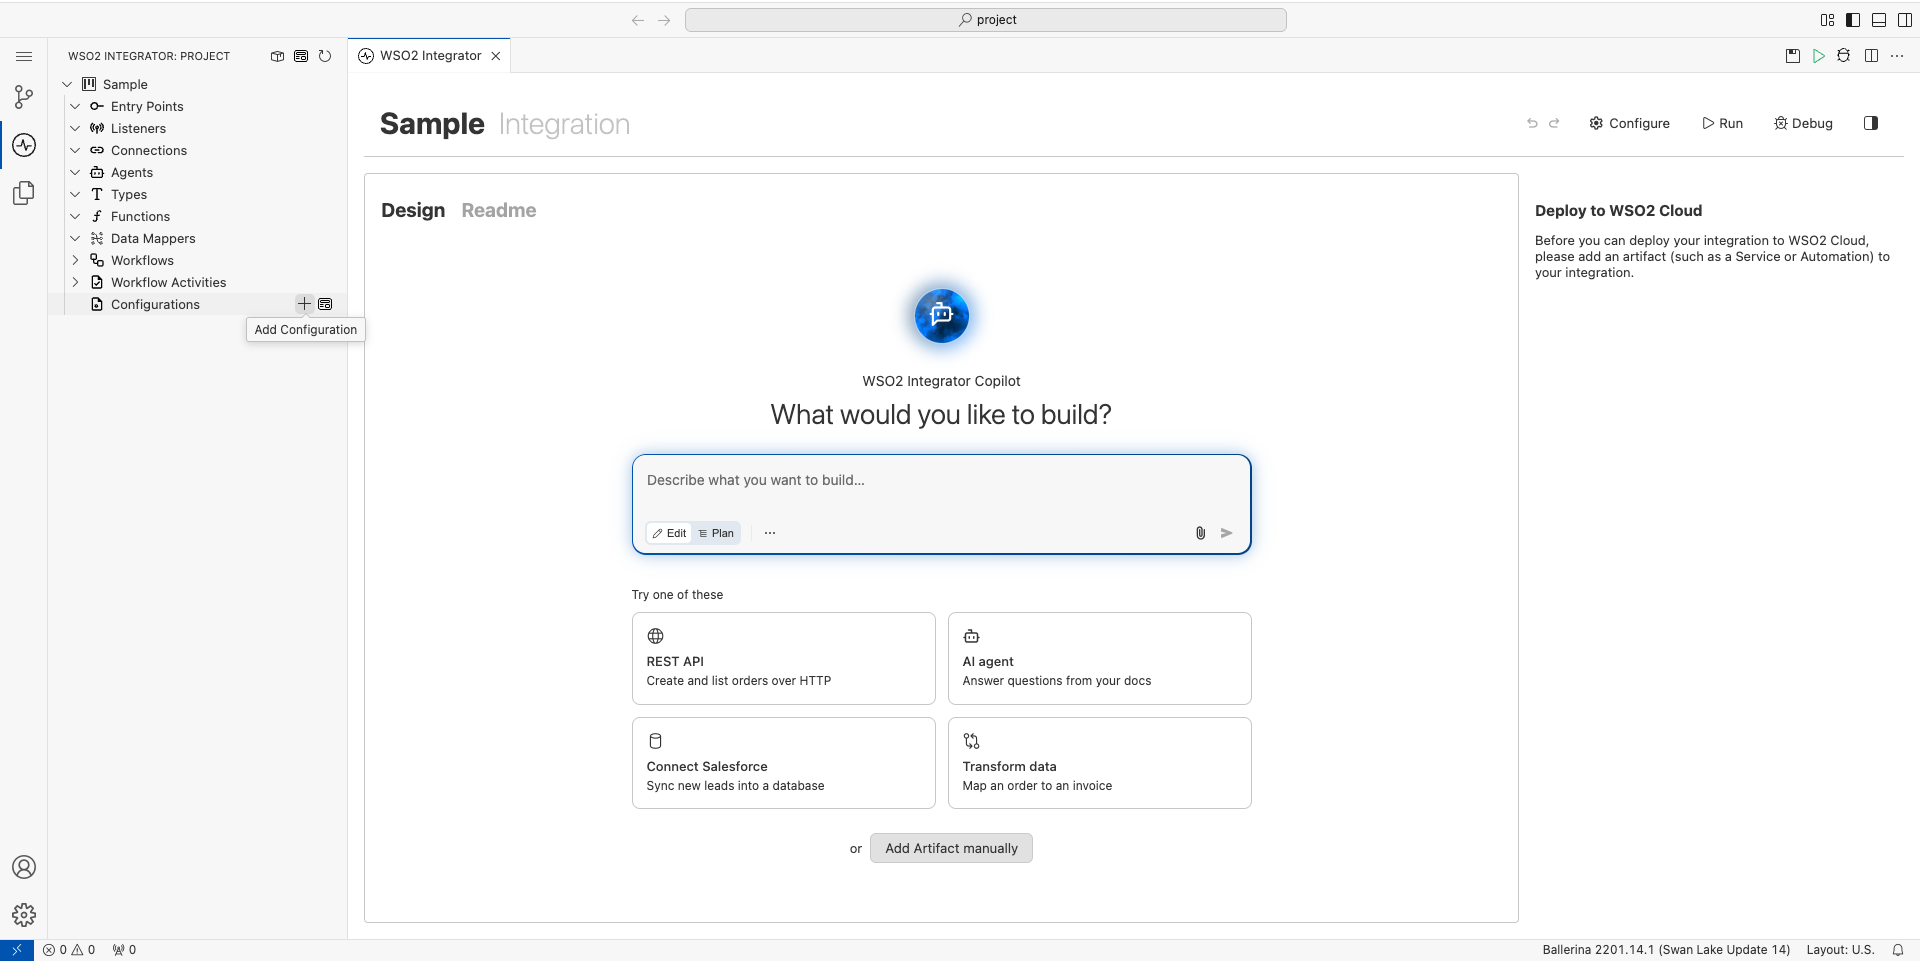
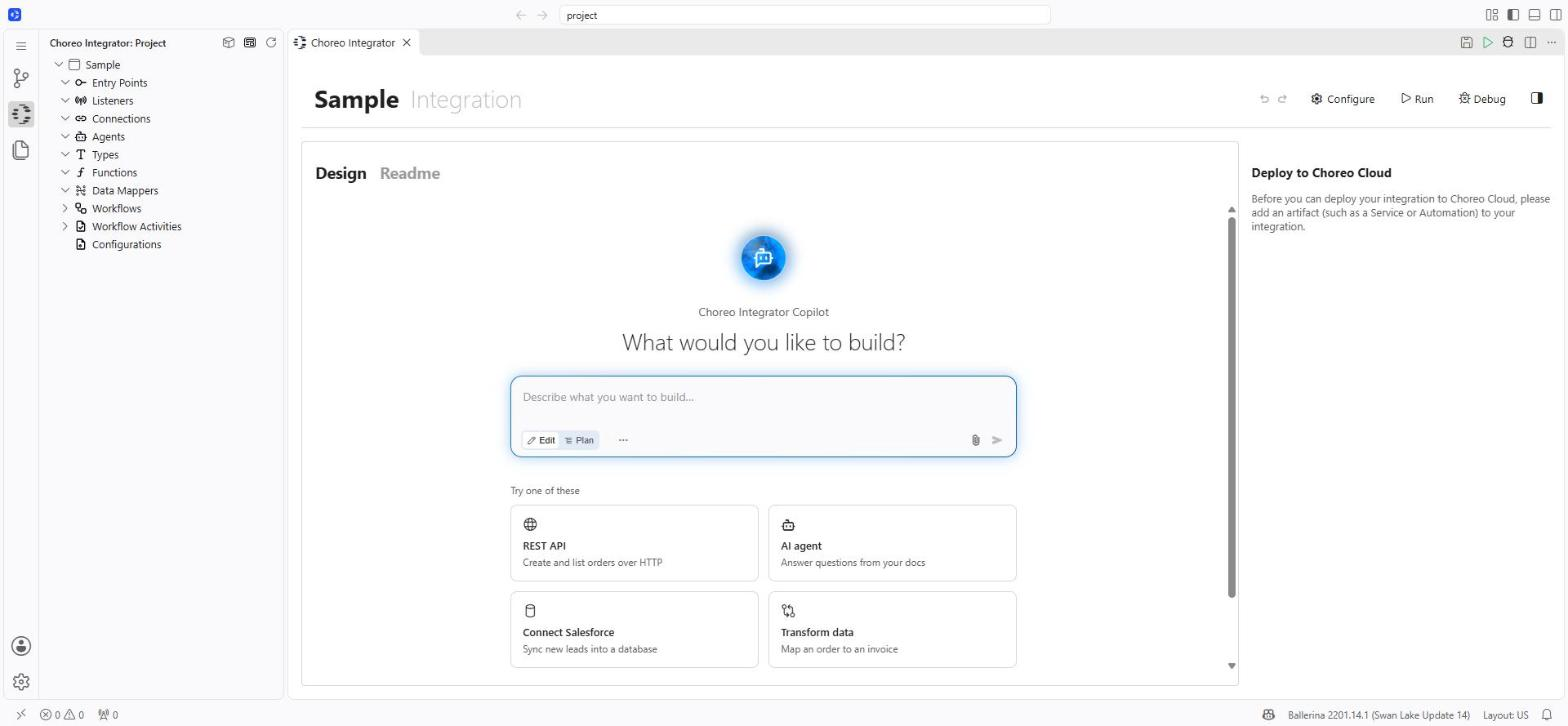
docs(v3): re-shoot the two cloud-editor shots on setup.md
Provisioned a fresh Cloud Editor instance from Default Project to
capture both: the "Your Cloud Editor instance is currently being
created" progress screen, and the empty-integration landing page with
the Deploy to Choreo Cloud panel. Removes the TODO - both are now real
v3 captures.

Also corrects the step: "Open Cloud Editor" is not on the project
overview page directly. You click "Create integration" first, then
"Open Cloud Editor" inside the "Create on Cloud" panel that follows.

setup.md is now 7/7.

diff --git a/en/docs/get-started/setup/setup.md b/en/docs/get-started/setup/setup.md
@@ -84,11 +84,9 @@ You land on the **Overview** page of the **Default Project** in Choreo Integrati
     }}
 />
 
-{/* TODO(v3): cloud-editor-setup.png below is still the old shot; the provisioning screen has not been re-captured. */}
-
 ## Step 5: Open the cloud editor
 
-On the project overview page, click **Open Cloud Editor**. Choreo Integrator provisions a cloud editor instance for you, showing progress through each setup stage.
+On the project overview page, click **Create integration**, then click **Open Cloud Editor** in the **Create on Cloud** panel. Choreo Integrator provisions a cloud editor instance for you, showing progress through several setup stages.
 
 <ThemedImage
     alt="Cloud editor instance being created"
